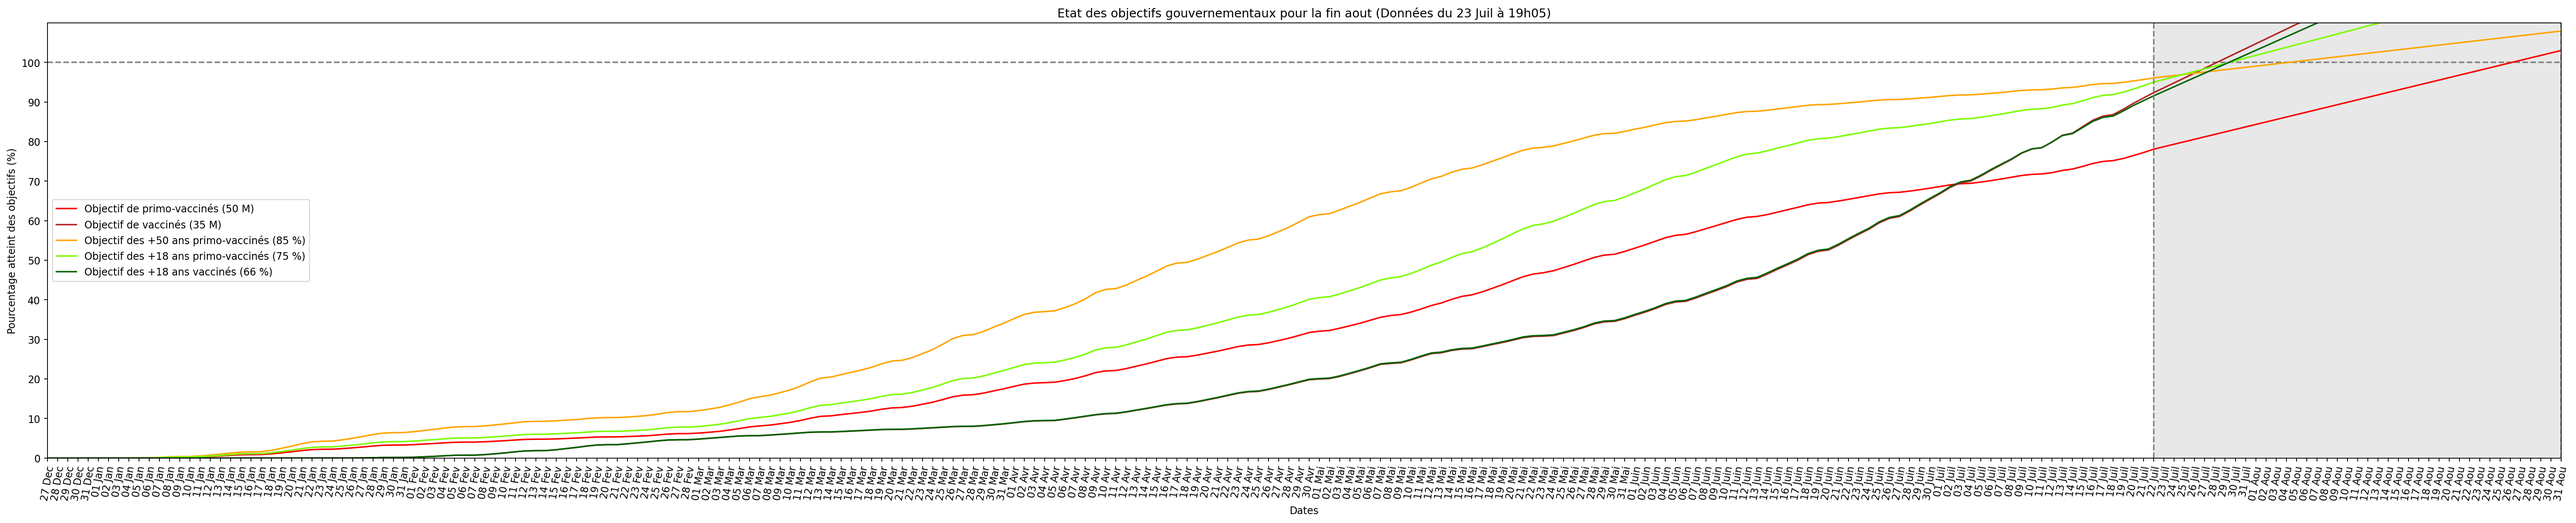
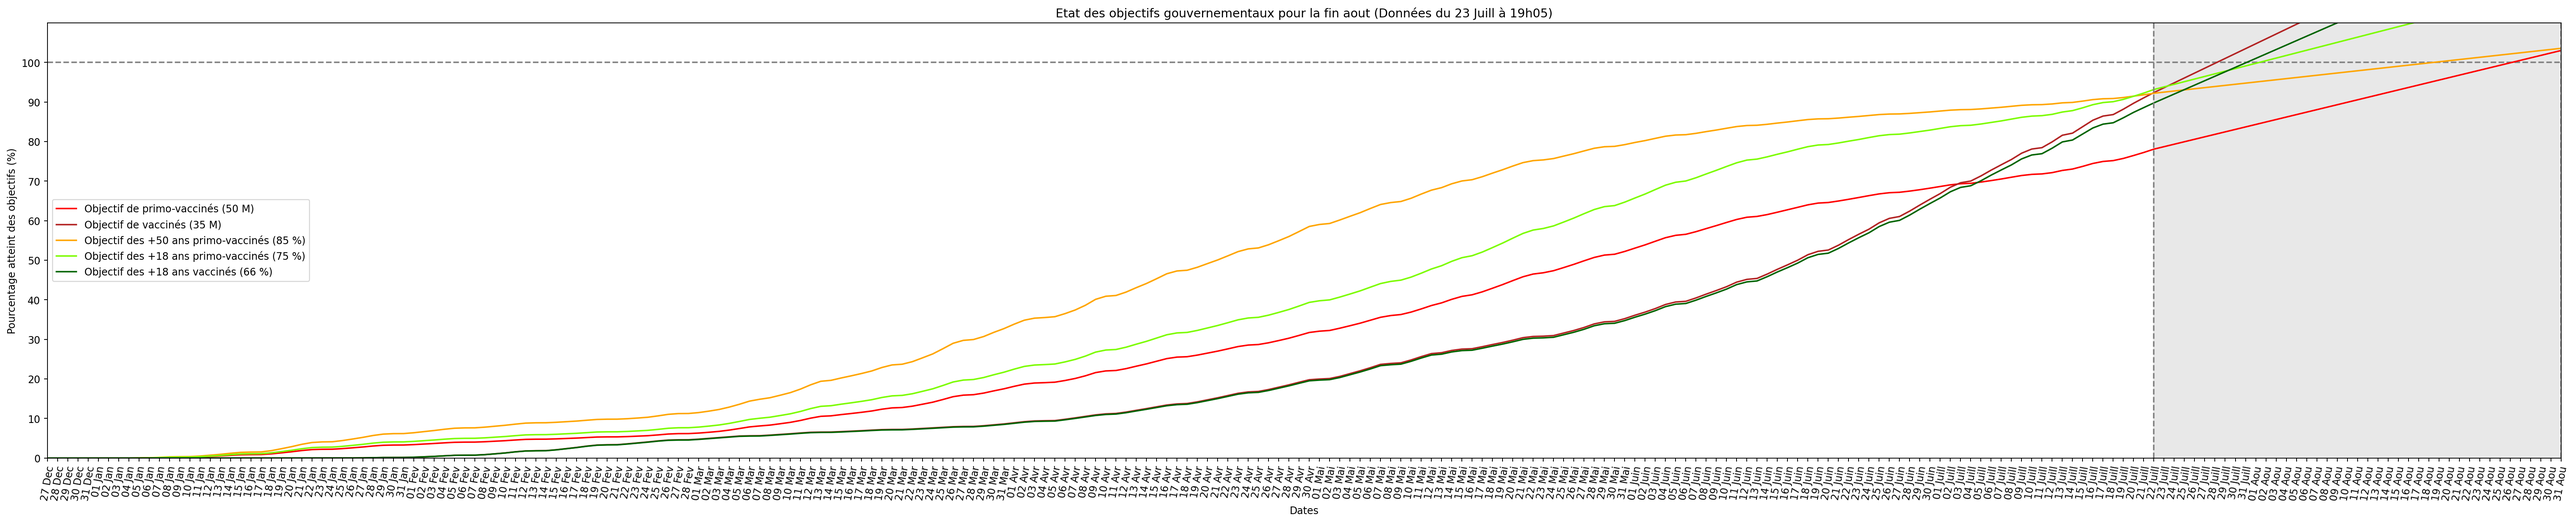
Remplace "Jun" par "Juin" et "Jul" pr "Juill"

diff --git a/main.py b/main.py
@@ -24,8 +24,8 @@ def format_date(date):
     elif date[1] == "03": new_date += " Mar"
     elif date[1] == "04": new_date += " Avr"
     elif date[1] == "05": new_date += " Mai"                            #En fonction de la valeur de MM (nombre),on rajoute la valeur MMM (lettres) correspondante
-    elif date[1] == "06": new_date += " Jun"
-    elif date[1] == "07": new_date += " Jul"
+    elif date[1] == "06": new_date += " Juin"
+    elif date[1] == "07": new_date += " Juill"
     elif date[1] == "08": new_date += " Aou"
     elif date[1] == "09": new_date += " Sep"
     elif date[1] == "10": new_date += " Oct"
@@ -108,8 +108,8 @@ def Importation(nom_fichier):
     
     #Sert à la création des dates ultérieurs à celles des données
     date_limite = str(liste_dates[-1])
-    while liste_dates[-1][0:2] != "31" and liste_dates[-1][3:7] == "Jul":
-        liste_dates.append(str(int(liste_dates[-1][0:2])+1)+" Jul")
+    while liste_dates[-1][0:2] != "31" and liste_dates[-1][3:9] == "Juill":
+        liste_dates.append(str(int(liste_dates[-1][0:3])+1)+" Juill")
             
     if "01 Aou" not in liste_dates: liste_dates.append("01 Aou")
         
